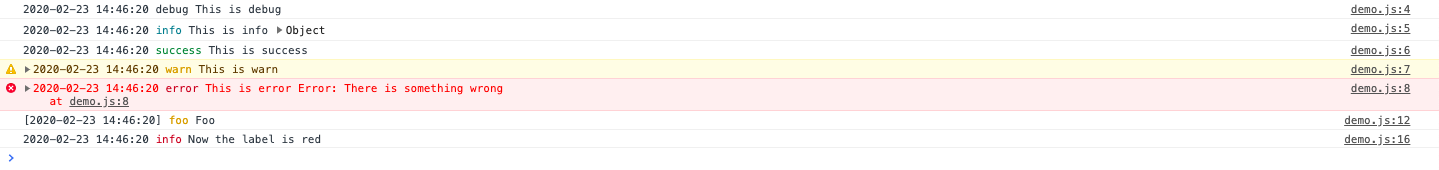
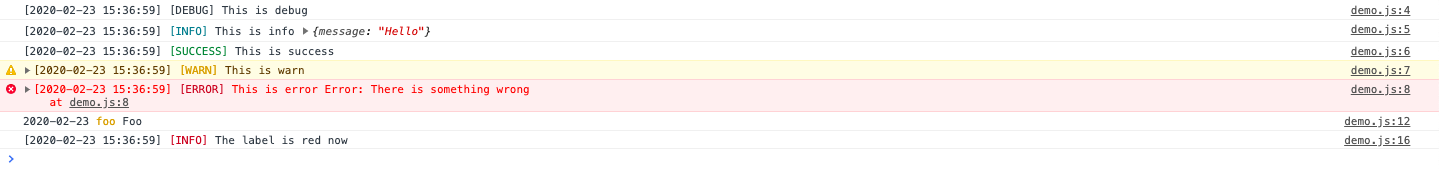
Add label option

diff --git a/dist/bundle.js b/dist/bundle.js
@@ -1,1 +1,1 @@
-!function(t,e){"object"==typeof exports&&"object"==typeof module?module.exports=e():"function"==typeof define&&define.amd?define([],e):"object"==typeof exports?exports.LogTalk=e():t.LogTalk=e()}("undefined"!=typeof self?self:this,(function(){return function(t){var e={};function n(r){if(e[r])return e[r].exports;var o=e[r]={i:r,l:!1,exports:{}};return t[r].call(o.exports,o,o.exports,n),o.l=!0,o.exports}return n.m=t,n.c=e,n.d=function(t,e,r){n.o(t,e)||Object.defineProperty(t,e,{enumerable:!0,get:r})},n.r=function(t){"undefined"!=typeof Symbol&&Symbol.toStringTag&&Object.defineProperty(t,Symbol.toStringTag,{value:"Module"}),Object.defineProperty(t,"__esModule",{value:!0})},n.t=function(t,e){if(1&e&&(t=n(t)),8&e)return t;if(4&e&&"object"==typeof t&&t&&t.__esModule)return t;var r=Object.create(null);if(n.r(r),Object.defineProperty(r,"default",{enumerable:!0,value:t}),2&e&&"string"!=typeof t)for(var o in t)n.d(r,o,function(e){return t[e]}.bind(null,o));return r},n.n=function(t){var e=t&&t.__esModule?function(){return t.default}:function(){return t};return n.d(e,"a",e),e},n.o=function(t,e){return Object.prototype.hasOwnProperty.call(t,e)},n.p="",n(n.s=0)}([function(t,e,n){function r(t){return function(t){if(Array.isArray(t)){for(var e=0,n=new Array(t.length);e<t.length;e++)n[e]=t[e];return n}}(t)||function(t){if(Symbol.iterator in Object(t)||"[object Arguments]"===Object.prototype.toString.call(t))return Array.from(t)}(t)||function(){throw new TypeError("Invalid attempt to spread non-iterable instance")}()}function o(t){return(o="function"==typeof Symbol&&"symbol"==typeof Symbol.iterator?function(t){return typeof t}:function(t){return t&&"function"==typeof Symbol&&t.constructor===Symbol&&t!==Symbol.prototype?"symbol":typeof t})(t)}function i(t,e){var n=Object.keys(t);if(Object.getOwnPropertySymbols){var r=Object.getOwnPropertySymbols(t);e&&(r=r.filter((function(e){return Object.getOwnPropertyDescriptor(t,e).enumerable}))),n.push.apply(n,r)}return n}function u(t){for(var e=1;e<arguments.length;e++){var n=null!=arguments[e]?arguments[e]:{};e%2?i(Object(n),!0).forEach((function(e){s(t,e,n[e])})):Object.getOwnPropertyDescriptors?Object.defineProperties(t,Object.getOwnPropertyDescriptors(n)):i(Object(n)).forEach((function(e){Object.defineProperty(t,e,Object.getOwnPropertyDescriptor(n,e))}))}return t}function s(t,e,n){return e in t?Object.defineProperty(t,e,{value:n,enumerable:!0,configurable:!0,writable:!0}):t[e]=n,t}function a(t,e){if(!(t instanceof e))throw new TypeError("Cannot call a class as a function")}function c(t,e){for(var n=0;n<e.length;n++){var r=e[n];r.enumerable=r.enumerable||!1,r.configurable=!0,"value"in r&&(r.writable=!0),Object.defineProperty(t,r.key,r)}}function f(t,e,n){return e&&c(t.prototype,e),n&&c(t,n),t}var l=n(1),h=function(){function t(){var e=arguments.length>0&&void 0!==arguments[0]?arguments[0]:1,n=arguments.length>1&&void 0!==arguments[1]?arguments[1]:{};a(this,t),this.__option=u({},t.DEFAULT_LOGGING_METHOD,{},n),this.__level=e,t.LOGGING_METHODS.forEach(this.setMethod.bind(this))}return f(t,null,[{key:"LOGGING_METHODS",get:function(){return[{name:"debug",level:1,color:"default",output:console.log},{name:"info",level:2,color:"blue",output:console.log},{name:"success",level:3,color:"green",output:console.log},{name:"warn",level:4,color:"yellow",output:console.warn||console.log},{name:"error",level:5,color:"red",output:console.error||console.log}]}},{key:"DEFAULT_LOGGING_METHOD",get:function(){return{level:1,color:"default",output:console.log,timeFormat:"YYYY-MM-DD HH:mm:ss"}}},{key:"BROWSER_COLOR",get:function(){return{red:"#BD2130",yellow:"#D39E00",green:"#1E7E34",blue:"#117A8B",default:"inherit"}}},{key:"TERMINAL_COLOR",get:function(){return{red:"[91m",yellow:"[93m",green:"[92m",blue:"[94m",default:"[0m"}}}]),f(t,[{key:"highlight",value:function(e,n,r){return"undefined"==typeof window?[e,t.TERMINAL_COLOR[r]+n+t.TERMINAL_COLOR.default]:window.navigator.userAgent.match(/(T|t)rident/)?[e,n]:["".concat(e," %c").concat(n),"color: ".concat(t.BROWSER_COLOR[r])]}},{key:"setMethod",value:function(t){if("object"!==o(t))throw new Error("Invalid method");var e=t=u({},this.__option,{},t),n=e.name,i=e.level,s=e.timeFormat,a=e.output,c=e.color;if("string"!=typeof n)throw new Error("Invalid method name");switch(n){case"highlight":case"setMethod":throw new Error("Method name is reserved");case"":throw new Error("Method name is empty")}if("undefined"==typeof console)return!1;if(!this.__level||i<this.__level)return!1;var f=l().format(s),h=this.highlight(f,n,c);this[n]=a.bind.apply(a,[console].concat(r(h)))}}]),t}();t.exports=h},function(t,e,n){t.exports=function(){"use strict";var t="millisecond",e="second",n="minute",r="hour",o="day",i="week",u="month",s="quarter",a="year",c=/^(\d{4})-?(\d{1,2})-?(\d{0,2})[^0-9]*(\d{1,2})?:?(\d{1,2})?:?(\d{1,2})?.?(\d{1,3})?$/,f=/\[([^\]]+)]|Y{2,4}|M{1,4}|D{1,2}|d{1,4}|H{1,2}|h{1,2}|a|A|m{1,2}|s{1,2}|Z{1,2}|SSS/g,l=function(t,e,n){var r=String(t);return!r||r.length>=e?t:""+Array(e+1-r.length).join(n)+t},h={s:l,z:function(t){var e=-t.utcOffset(),n=Math.abs(e),r=Math.floor(n/60),o=n%60;return(e<=0?"+":"-")+l(r,2,"0")+":"+l(o,2,"0")},m:function(t,e){var n=12*(e.year()-t.year())+(e.month()-t.month()),r=t.clone().add(n,u),o=e-r<0,i=t.clone().add(n+(o?-1:1),u);return Number(-(n+(e-r)/(o?r-i:i-r))||0)},a:function(t){return t<0?Math.ceil(t)||0:Math.floor(t)},p:function(c){return{M:u,y:a,w:i,d:o,h:r,m:n,s:e,ms:t,Q:s}[c]||String(c||"").toLowerCase().replace(/s$/,"")},u:function(t){return void 0===t}},d={name:"en",weekdays:"Sunday_Monday_Tuesday_Wednesday_Thursday_Friday_Saturday".split("_"),months:"January_February_March_April_May_June_July_August_September_October_November_December".split("_")},y="en",p={};p[y]=d;var m=function(t){return t instanceof O},g=function(t,e,n){var r;if(!t)return y;if("string"==typeof t)p[t]&&(r=t),e&&(p[t]=e,r=t);else{var o=t.name;p[o]=t,r=o}return n||(y=r),r},$=function(t,e,n){if(m(t))return t.clone();var r=e?"string"==typeof e?{format:e,pl:n}:e:{};return r.date=t,new O(r)},v=h;v.l=g,v.i=m,v.w=function(t,e){return $(t,{locale:e.$L,utc:e.$u,$offset:e.$offset})};var O=function(){function l(t){this.$L=this.$L||g(t.locale,null,!0),this.parse(t)}var h=l.prototype;return h.parse=function(t){this.$d=function(t){var e=t.date,n=t.utc;if(null===e)return new Date(NaN);if(v.u(e))return new Date;if(e instanceof Date)return new Date(e);if("string"==typeof e&&!/Z$/i.test(e)){var r=e.match(c);if(r)return n?new Date(Date.UTC(r[1],r[2]-1,r[3]||1,r[4]||0,r[5]||0,r[6]||0,r[7]||0)):new Date(r[1],r[2]-1,r[3]||1,r[4]||0,r[5]||0,r[6]||0,r[7]||0)}return new Date(e)}(t),this.init()},h.init=function(){var t=this.$d;this.$y=t.getFullYear(),this.$M=t.getMonth(),this.$D=t.getDate(),this.$W=t.getDay(),this.$H=t.getHours(),this.$m=t.getMinutes(),this.$s=t.getSeconds(),this.$ms=t.getMilliseconds()},h.$utils=function(){return v},h.isValid=function(){return!("Invalid Date"===this.$d.toString())},h.isSame=function(t,e){var n=$(t);return this.startOf(e)<=n&&n<=this.endOf(e)},h.isAfter=function(t,e){return $(t)<this.startOf(e)},h.isBefore=function(t,e){return this.endOf(e)<$(t)},h.$g=function(t,e,n){return v.u(t)?this[e]:this.set(n,t)},h.year=function(t){return this.$g(t,"$y",a)},h.month=function(t){return this.$g(t,"$M",u)},h.day=function(t){return this.$g(t,"$W",o)},h.date=function(t){return this.$g(t,"$D","date")},h.hour=function(t){return this.$g(t,"$H",r)},h.minute=function(t){return this.$g(t,"$m",n)},h.second=function(t){return this.$g(t,"$s",e)},h.millisecond=function(e){return this.$g(e,"$ms",t)},h.unix=function(){return Math.floor(this.valueOf()/1e3)},h.valueOf=function(){return this.$d.getTime()},h.startOf=function(t,s){var c=this,f=!!v.u(s)||s,l=v.p(t),h=function(t,e){var n=v.w(c.$u?Date.UTC(c.$y,e,t):new Date(c.$y,e,t),c);return f?n:n.endOf(o)},d=function(t,e){return v.w(c.toDate()[t].apply(c.toDate(),(f?[0,0,0,0]:[23,59,59,999]).slice(e)),c)},y=this.$W,p=this.$M,m=this.$D,g="set"+(this.$u?"UTC":"");switch(l){case a:return f?h(1,0):h(31,11);case u:return f?h(1,p):h(0,p+1);case i:var $=this.$locale().weekStart||0,O=(y<$?y+7:y)-$;return h(f?m-O:m+(6-O),p);case o:case"date":return d(g+"Hours",0);case r:return d(g+"Minutes",1);case n:return d(g+"Seconds",2);case e:return d(g+"Milliseconds",3);default:return this.clone()}},h.endOf=function(t){return this.startOf(t,!1)},h.$set=function(i,s){var c,f=v.p(i),l="set"+(this.$u?"UTC":""),h=(c={},c[o]=l+"Date",c.date=l+"Date",c[u]=l+"Month",c[a]=l+"FullYear",c[r]=l+"Hours",c[n]=l+"Minutes",c[e]=l+"Seconds",c[t]=l+"Milliseconds",c)[f],d=f===o?this.$D+(s-this.$W):s;if(f===u||f===a){var y=this.clone().set("date",1);y.$d[h](d),y.init(),this.$d=y.set("date",Math.min(this.$D,y.daysInMonth())).toDate()}else h&&this.$d[h](d);return this.init(),this},h.set=function(t,e){return this.clone().$set(t,e)},h.get=function(t){return this[v.p(t)]()},h.add=function(t,s){var c,f=this;t=Number(t);var l=v.p(s),h=function(e){var n=$(f);return v.w(n.date(n.date()+Math.round(e*t)),f)};if(l===u)return this.set(u,this.$M+t);if(l===a)return this.set(a,this.$y+t);if(l===o)return h(1);if(l===i)return h(7);var d=(c={},c[n]=6e4,c[r]=36e5,c[e]=1e3,c)[l]||1,y=this.$d.getTime()+t*d;return v.w(y,this)},h.subtract=function(t,e){return this.add(-1*t,e)},h.format=function(t){var e=this;if(!this.isValid())return"Invalid Date";var n=t||"YYYY-MM-DDTHH:mm:ssZ",r=v.z(this),o=this.$locale(),i=this.$H,u=this.$m,s=this.$M,a=o.weekdays,c=o.months,l=function(t,r,o,i){return t&&(t[r]||t(e,n))||o[r].substr(0,i)},h=function(t){return v.s(i%12||12,t,"0")},d=o.meridiem||function(t,e,n){var r=t<12?"AM":"PM";return n?r.toLowerCase():r},y={YY:String(this.$y).slice(-2),YYYY:this.$y,M:s+1,MM:v.s(s+1,2,"0"),MMM:l(o.monthsShort,s,c,3),MMMM:c[s]||c(this,n),D:this.$D,DD:v.s(this.$D,2,"0"),d:String(this.$W),dd:l(o.weekdaysMin,this.$W,a,2),ddd:l(o.weekdaysShort,this.$W,a,3),dddd:a[this.$W],H:String(i),HH:v.s(i,2,"0"),h:h(1),hh:h(2),a:d(i,u,!0),A:d(i,u,!1),m:String(u),mm:v.s(u,2,"0"),s:String(this.$s),ss:v.s(this.$s,2,"0"),SSS:v.s(this.$ms,3,"0"),Z:r};return n.replace(f,(function(t,e){return e||y[t]||r.replace(":","")}))},h.utcOffset=function(){return 15*-Math.round(this.$d.getTimezoneOffset()/15)},h.diff=function(t,c,f){var l,h=v.p(c),d=$(t),y=6e4*(d.utcOffset()-this.utcOffset()),p=this-d,m=v.m(this,d);return m=(l={},l[a]=m/12,l[u]=m,l[s]=m/3,l[i]=(p-y)/6048e5,l[o]=(p-y)/864e5,l[r]=p/36e5,l[n]=p/6e4,l[e]=p/1e3,l)[h]||p,f?m:v.a(m)},h.daysInMonth=function(){return this.endOf(u).$D},h.$locale=function(){return p[this.$L]},h.locale=function(t,e){if(!t)return this.$L;var n=this.clone(),r=g(t,e,!0);return r&&(n.$L=r),n},h.clone=function(){return v.w(this.$d,this)},h.toDate=function(){return new Date(this.valueOf())},h.toJSON=function(){return this.isValid()?this.toISOString():null},h.toISOString=function(){return this.$d.toISOString()},h.toString=function(){return this.$d.toUTCString()},l}();return $.prototype=O.prototype,$.extend=function(t,e){return t(e,O,$),$},$.locale=g,$.isDayjs=m,$.unix=function(t){return $(1e3*t)},$.en=p[y],$.Ls=p,$}()}])}));
+!function(t,e){"object"==typeof exports&&"object"==typeof module?module.exports=e():"function"==typeof define&&define.amd?define([],e):"object"==typeof exports?exports.LogTalk=e():t.LogTalk=e()}("undefined"!=typeof self?self:this,(function(){return function(t){var e={};function n(r){if(e[r])return e[r].exports;var o=e[r]={i:r,l:!1,exports:{}};return t[r].call(o.exports,o,o.exports,n),o.l=!0,o.exports}return n.m=t,n.c=e,n.d=function(t,e,r){n.o(t,e)||Object.defineProperty(t,e,{enumerable:!0,get:r})},n.r=function(t){"undefined"!=typeof Symbol&&Symbol.toStringTag&&Object.defineProperty(t,Symbol.toStringTag,{value:"Module"}),Object.defineProperty(t,"__esModule",{value:!0})},n.t=function(t,e){if(1&e&&(t=n(t)),8&e)return t;if(4&e&&"object"==typeof t&&t&&t.__esModule)return t;var r=Object.create(null);if(n.r(r),Object.defineProperty(r,"default",{enumerable:!0,value:t}),2&e&&"string"!=typeof t)for(var o in t)n.d(r,o,function(e){return t[e]}.bind(null,o));return r},n.n=function(t){var e=t&&t.__esModule?function(){return t.default}:function(){return t};return n.d(e,"a",e),e},n.o=function(t,e){return Object.prototype.hasOwnProperty.call(t,e)},n.p="",n(n.s=0)}([function(t,e,n){function r(t){return function(t){if(Array.isArray(t)){for(var e=0,n=new Array(t.length);e<t.length;e++)n[e]=t[e];return n}}(t)||function(t){if(Symbol.iterator in Object(t)||"[object Arguments]"===Object.prototype.toString.call(t))return Array.from(t)}(t)||function(){throw new TypeError("Invalid attempt to spread non-iterable instance")}()}function o(t){return(o="function"==typeof Symbol&&"symbol"==typeof Symbol.iterator?function(t){return typeof t}:function(t){return t&&"function"==typeof Symbol&&t.constructor===Symbol&&t!==Symbol.prototype?"symbol":typeof t})(t)}function i(t,e){var n=Object.keys(t);if(Object.getOwnPropertySymbols){var r=Object.getOwnPropertySymbols(t);e&&(r=r.filter((function(e){return Object.getOwnPropertyDescriptor(t,e).enumerable}))),n.push.apply(n,r)}return n}function u(t){for(var e=1;e<arguments.length;e++){var n=null!=arguments[e]?arguments[e]:{};e%2?i(Object(n),!0).forEach((function(e){s(t,e,n[e])})):Object.getOwnPropertyDescriptors?Object.defineProperties(t,Object.getOwnPropertyDescriptors(n)):i(Object(n)).forEach((function(e){Object.defineProperty(t,e,Object.getOwnPropertyDescriptor(n,e))}))}return t}function s(t,e,n){return e in t?Object.defineProperty(t,e,{value:n,enumerable:!0,configurable:!0,writable:!0}):t[e]=n,t}function a(t,e){if(!(t instanceof e))throw new TypeError("Cannot call a class as a function")}function c(t,e){for(var n=0;n<e.length;n++){var r=e[n];r.enumerable=r.enumerable||!1,r.configurable=!0,"value"in r&&(r.writable=!0),Object.defineProperty(t,r.key,r)}}function f(t,e,n){return e&&c(t.prototype,e),n&&c(t,n),t}var l=n(1),h=function(){function t(){var e=arguments.length>0&&void 0!==arguments[0]?arguments[0]:1,n=arguments.length>1&&void 0!==arguments[1]?arguments[1]:{};a(this,t),this.__option=u({},t.DEFAULT_LOGGING_METHOD,{},n),this.__level=e,t.LOGGING_METHODS.forEach(this.setMethod.bind(this))}return f(t,null,[{key:"LOGGING_METHODS",get:function(){return[{name:"debug",label:"[DEBUG]",level:1,color:"default",output:console.log},{name:"info",label:"[INFO]",level:2,color:"blue",output:console.log},{name:"success",label:"[SUCCESS]",level:3,color:"green",output:console.log},{name:"warn",label:"[WARN]",level:4,color:"yellow",output:console.warn||console.log},{name:"error",label:"[ERROR]",level:5,color:"red",output:console.error||console.log}]}},{key:"DEFAULT_LOGGING_METHOD",get:function(){return{level:1,color:"default",output:console.log,timeFormat:"[[]YYYY-MM-DD HH:mm:ss]"}}},{key:"BROWSER_COLOR",get:function(){return{red:"#BD2130",yellow:"#D39E00",green:"#1E7E34",blue:"#117A8B",default:"inherit"}}},{key:"TERMINAL_COLOR",get:function(){return{red:"[91m",yellow:"[93m",green:"[92m",blue:"[94m",default:"[0m"}}}]),f(t,[{key:"highlight",value:function(e,n,r){return"undefined"==typeof window?[e,t.TERMINAL_COLOR[r]+n+t.TERMINAL_COLOR.default]:window.navigator.userAgent.match(/(T|t)rident/)?[e,n]:["".concat(e," %c").concat(n),"color: ".concat(t.BROWSER_COLOR[r])]}},{key:"setMethod",value:function(t){if("object"!==o(t))throw new Error("Invalid method");var e=t=u({},this.__option,{},t),n=e.name,i=e.label,s=e.level,a=e.timeFormat,c=e.output,f=e.color;if("string"!=typeof n)throw new Error("Invalid method name");switch(n){case"highlight":case"setMethod":throw new Error("Method name is reserved");case"":throw new Error("Method name is empty")}if("undefined"==typeof console)return!1;if(!this.__level||s<this.__level)return!1;var h=l().format(a),d=this.highlight(h,void 0!==i?i:n,f);this[n]=c.bind.apply(c,[console].concat(r(d)))}}]),t}();t.exports=h},function(t,e,n){t.exports=function(){"use strict";var t="millisecond",e="second",n="minute",r="hour",o="day",i="week",u="month",s="quarter",a="year",c=/^(\d{4})-?(\d{1,2})-?(\d{0,2})[^0-9]*(\d{1,2})?:?(\d{1,2})?:?(\d{1,2})?.?(\d{1,3})?$/,f=/\[([^\]]+)]|Y{2,4}|M{1,4}|D{1,2}|d{1,4}|H{1,2}|h{1,2}|a|A|m{1,2}|s{1,2}|Z{1,2}|SSS/g,l=function(t,e,n){var r=String(t);return!r||r.length>=e?t:""+Array(e+1-r.length).join(n)+t},h={s:l,z:function(t){var e=-t.utcOffset(),n=Math.abs(e),r=Math.floor(n/60),o=n%60;return(e<=0?"+":"-")+l(r,2,"0")+":"+l(o,2,"0")},m:function(t,e){var n=12*(e.year()-t.year())+(e.month()-t.month()),r=t.clone().add(n,u),o=e-r<0,i=t.clone().add(n+(o?-1:1),u);return Number(-(n+(e-r)/(o?r-i:i-r))||0)},a:function(t){return t<0?Math.ceil(t)||0:Math.floor(t)},p:function(c){return{M:u,y:a,w:i,d:o,h:r,m:n,s:e,ms:t,Q:s}[c]||String(c||"").toLowerCase().replace(/s$/,"")},u:function(t){return void 0===t}},d={name:"en",weekdays:"Sunday_Monday_Tuesday_Wednesday_Thursday_Friday_Saturday".split("_"),months:"January_February_March_April_May_June_July_August_September_October_November_December".split("_")},y="en",p={};p[y]=d;var m=function(t){return t instanceof b},g=function(t,e,n){var r;if(!t)return y;if("string"==typeof t)p[t]&&(r=t),e&&(p[t]=e,r=t);else{var o=t.name;p[o]=t,r=o}return n||(y=r),r},$=function(t,e,n){if(m(t))return t.clone();var r=e?"string"==typeof e?{format:e,pl:n}:e:{};return r.date=t,new b(r)},v=h;v.l=g,v.i=m,v.w=function(t,e){return $(t,{locale:e.$L,utc:e.$u,$offset:e.$offset})};var b=function(){function l(t){this.$L=this.$L||g(t.locale,null,!0),this.parse(t)}var h=l.prototype;return h.parse=function(t){this.$d=function(t){var e=t.date,n=t.utc;if(null===e)return new Date(NaN);if(v.u(e))return new Date;if(e instanceof Date)return new Date(e);if("string"==typeof e&&!/Z$/i.test(e)){var r=e.match(c);if(r)return n?new Date(Date.UTC(r[1],r[2]-1,r[3]||1,r[4]||0,r[5]||0,r[6]||0,r[7]||0)):new Date(r[1],r[2]-1,r[3]||1,r[4]||0,r[5]||0,r[6]||0,r[7]||0)}return new Date(e)}(t),this.init()},h.init=function(){var t=this.$d;this.$y=t.getFullYear(),this.$M=t.getMonth(),this.$D=t.getDate(),this.$W=t.getDay(),this.$H=t.getHours(),this.$m=t.getMinutes(),this.$s=t.getSeconds(),this.$ms=t.getMilliseconds()},h.$utils=function(){return v},h.isValid=function(){return!("Invalid Date"===this.$d.toString())},h.isSame=function(t,e){var n=$(t);return this.startOf(e)<=n&&n<=this.endOf(e)},h.isAfter=function(t,e){return $(t)<this.startOf(e)},h.isBefore=function(t,e){return this.endOf(e)<$(t)},h.$g=function(t,e,n){return v.u(t)?this[e]:this.set(n,t)},h.year=function(t){return this.$g(t,"$y",a)},h.month=function(t){return this.$g(t,"$M",u)},h.day=function(t){return this.$g(t,"$W",o)},h.date=function(t){return this.$g(t,"$D","date")},h.hour=function(t){return this.$g(t,"$H",r)},h.minute=function(t){return this.$g(t,"$m",n)},h.second=function(t){return this.$g(t,"$s",e)},h.millisecond=function(e){return this.$g(e,"$ms",t)},h.unix=function(){return Math.floor(this.valueOf()/1e3)},h.valueOf=function(){return this.$d.getTime()},h.startOf=function(t,s){var c=this,f=!!v.u(s)||s,l=v.p(t),h=function(t,e){var n=v.w(c.$u?Date.UTC(c.$y,e,t):new Date(c.$y,e,t),c);return f?n:n.endOf(o)},d=function(t,e){return v.w(c.toDate()[t].apply(c.toDate(),(f?[0,0,0,0]:[23,59,59,999]).slice(e)),c)},y=this.$W,p=this.$M,m=this.$D,g="set"+(this.$u?"UTC":"");switch(l){case a:return f?h(1,0):h(31,11);case u:return f?h(1,p):h(0,p+1);case i:var $=this.$locale().weekStart||0,b=(y<$?y+7:y)-$;return h(f?m-b:m+(6-b),p);case o:case"date":return d(g+"Hours",0);case r:return d(g+"Minutes",1);case n:return d(g+"Seconds",2);case e:return d(g+"Milliseconds",3);default:return this.clone()}},h.endOf=function(t){return this.startOf(t,!1)},h.$set=function(i,s){var c,f=v.p(i),l="set"+(this.$u?"UTC":""),h=(c={},c[o]=l+"Date",c.date=l+"Date",c[u]=l+"Month",c[a]=l+"FullYear",c[r]=l+"Hours",c[n]=l+"Minutes",c[e]=l+"Seconds",c[t]=l+"Milliseconds",c)[f],d=f===o?this.$D+(s-this.$W):s;if(f===u||f===a){var y=this.clone().set("date",1);y.$d[h](d),y.init(),this.$d=y.set("date",Math.min(this.$D,y.daysInMonth())).toDate()}else h&&this.$d[h](d);return this.init(),this},h.set=function(t,e){return this.clone().$set(t,e)},h.get=function(t){return this[v.p(t)]()},h.add=function(t,s){var c,f=this;t=Number(t);var l=v.p(s),h=function(e){var n=$(f);return v.w(n.date(n.date()+Math.round(e*t)),f)};if(l===u)return this.set(u,this.$M+t);if(l===a)return this.set(a,this.$y+t);if(l===o)return h(1);if(l===i)return h(7);var d=(c={},c[n]=6e4,c[r]=36e5,c[e]=1e3,c)[l]||1,y=this.$d.getTime()+t*d;return v.w(y,this)},h.subtract=function(t,e){return this.add(-1*t,e)},h.format=function(t){var e=this;if(!this.isValid())return"Invalid Date";var n=t||"YYYY-MM-DDTHH:mm:ssZ",r=v.z(this),o=this.$locale(),i=this.$H,u=this.$m,s=this.$M,a=o.weekdays,c=o.months,l=function(t,r,o,i){return t&&(t[r]||t(e,n))||o[r].substr(0,i)},h=function(t){return v.s(i%12||12,t,"0")},d=o.meridiem||function(t,e,n){var r=t<12?"AM":"PM";return n?r.toLowerCase():r},y={YY:String(this.$y).slice(-2),YYYY:this.$y,M:s+1,MM:v.s(s+1,2,"0"),MMM:l(o.monthsShort,s,c,3),MMMM:c[s]||c(this,n),D:this.$D,DD:v.s(this.$D,2,"0"),d:String(this.$W),dd:l(o.weekdaysMin,this.$W,a,2),ddd:l(o.weekdaysShort,this.$W,a,3),dddd:a[this.$W],H:String(i),HH:v.s(i,2,"0"),h:h(1),hh:h(2),a:d(i,u,!0),A:d(i,u,!1),m:String(u),mm:v.s(u,2,"0"),s:String(this.$s),ss:v.s(this.$s,2,"0"),SSS:v.s(this.$ms,3,"0"),Z:r};return n.replace(f,(function(t,e){return e||y[t]||r.replace(":","")}))},h.utcOffset=function(){return 15*-Math.round(this.$d.getTimezoneOffset()/15)},h.diff=function(t,c,f){var l,h=v.p(c),d=$(t),y=6e4*(d.utcOffset()-this.utcOffset()),p=this-d,m=v.m(this,d);return m=(l={},l[a]=m/12,l[u]=m,l[s]=m/3,l[i]=(p-y)/6048e5,l[o]=(p-y)/864e5,l[r]=p/36e5,l[n]=p/6e4,l[e]=p/1e3,l)[h]||p,f?m:v.a(m)},h.daysInMonth=function(){return this.endOf(u).$D},h.$locale=function(){return p[this.$L]},h.locale=function(t,e){if(!t)return this.$L;var n=this.clone(),r=g(t,e,!0);return r&&(n.$L=r),n},h.clone=function(){return v.w(this.$d,this)},h.toDate=function(){return new Date(this.valueOf())},h.toJSON=function(){return this.isValid()?this.toISOString():null},h.toISOString=function(){return this.$d.toISOString()},h.toString=function(){return this.$d.toUTCString()},l}();return $.prototype=b.prototype,$.extend=function(t,e){return t(e,b,$),$},$.locale=g,$.isDayjs=m,$.unix=function(t){return $(1e3*t)},$.en=p[y],$.Ls=p,$}()}])}));

diff --git a/docs/bundle.js b/docs/bundle.js
@@ -1,1 +1,1 @@
-!function(t,e){"object"==typeof exports&&"object"==typeof module?module.exports=e():"function"==typeof define&&define.amd?define([],e):"object"==typeof exports?exports.LogTalk=e():t.LogTalk=e()}("undefined"!=typeof self?self:this,(function(){return function(t){var e={};function n(r){if(e[r])return e[r].exports;var o=e[r]={i:r,l:!1,exports:{}};return t[r].call(o.exports,o,o.exports,n),o.l=!0,o.exports}return n.m=t,n.c=e,n.d=function(t,e,r){n.o(t,e)||Object.defineProperty(t,e,{enumerable:!0,get:r})},n.r=function(t){"undefined"!=typeof Symbol&&Symbol.toStringTag&&Object.defineProperty(t,Symbol.toStringTag,{value:"Module"}),Object.defineProperty(t,"__esModule",{value:!0})},n.t=function(t,e){if(1&e&&(t=n(t)),8&e)return t;if(4&e&&"object"==typeof t&&t&&t.__esModule)return t;var r=Object.create(null);if(n.r(r),Object.defineProperty(r,"default",{enumerable:!0,value:t}),2&e&&"string"!=typeof t)for(var o in t)n.d(r,o,function(e){return t[e]}.bind(null,o));return r},n.n=function(t){var e=t&&t.__esModule?function(){return t.default}:function(){return t};return n.d(e,"a",e),e},n.o=function(t,e){return Object.prototype.hasOwnProperty.call(t,e)},n.p="",n(n.s=0)}([function(t,e,n){function r(t){return function(t){if(Array.isArray(t)){for(var e=0,n=new Array(t.length);e<t.length;e++)n[e]=t[e];return n}}(t)||function(t){if(Symbol.iterator in Object(t)||"[object Arguments]"===Object.prototype.toString.call(t))return Array.from(t)}(t)||function(){throw new TypeError("Invalid attempt to spread non-iterable instance")}()}function o(t){return(o="function"==typeof Symbol&&"symbol"==typeof Symbol.iterator?function(t){return typeof t}:function(t){return t&&"function"==typeof Symbol&&t.constructor===Symbol&&t!==Symbol.prototype?"symbol":typeof t})(t)}function i(t,e){var n=Object.keys(t);if(Object.getOwnPropertySymbols){var r=Object.getOwnPropertySymbols(t);e&&(r=r.filter((function(e){return Object.getOwnPropertyDescriptor(t,e).enumerable}))),n.push.apply(n,r)}return n}function u(t){for(var e=1;e<arguments.length;e++){var n=null!=arguments[e]?arguments[e]:{};e%2?i(Object(n),!0).forEach((function(e){s(t,e,n[e])})):Object.getOwnPropertyDescriptors?Object.defineProperties(t,Object.getOwnPropertyDescriptors(n)):i(Object(n)).forEach((function(e){Object.defineProperty(t,e,Object.getOwnPropertyDescriptor(n,e))}))}return t}function s(t,e,n){return e in t?Object.defineProperty(t,e,{value:n,enumerable:!0,configurable:!0,writable:!0}):t[e]=n,t}function a(t,e){if(!(t instanceof e))throw new TypeError("Cannot call a class as a function")}function c(t,e){for(var n=0;n<e.length;n++){var r=e[n];r.enumerable=r.enumerable||!1,r.configurable=!0,"value"in r&&(r.writable=!0),Object.defineProperty(t,r.key,r)}}function f(t,e,n){return e&&c(t.prototype,e),n&&c(t,n),t}var l=n(1),h=function(){function t(){var e=arguments.length>0&&void 0!==arguments[0]?arguments[0]:1,n=arguments.length>1&&void 0!==arguments[1]?arguments[1]:{};a(this,t),this.__option=u({},t.DEFAULT_LOGGING_METHOD,{},n),this.__level=e,t.LOGGING_METHODS.forEach(this.setMethod.bind(this))}return f(t,null,[{key:"LOGGING_METHODS",get:function(){return[{name:"debug",level:1,color:"default",output:console.log},{name:"info",level:2,color:"blue",output:console.log},{name:"success",level:3,color:"green",output:console.log},{name:"warn",level:4,color:"yellow",output:console.warn||console.log},{name:"error",level:5,color:"red",output:console.error||console.log}]}},{key:"DEFAULT_LOGGING_METHOD",get:function(){return{level:1,color:"default",output:console.log,timeFormat:"YYYY-MM-DD HH:mm:ss"}}},{key:"BROWSER_COLOR",get:function(){return{red:"#BD2130",yellow:"#D39E00",green:"#1E7E34",blue:"#117A8B",default:"inherit"}}},{key:"TERMINAL_COLOR",get:function(){return{red:"[91m",yellow:"[93m",green:"[92m",blue:"[94m",default:"[0m"}}}]),f(t,[{key:"highlight",value:function(e,n,r){return"undefined"==typeof window?[e,t.TERMINAL_COLOR[r]+n+t.TERMINAL_COLOR.default]:window.navigator.userAgent.match(/(T|t)rident/)?[e,n]:["".concat(e," %c").concat(n),"color: ".concat(t.BROWSER_COLOR[r])]}},{key:"setMethod",value:function(t){if("object"!==o(t))throw new Error("Invalid method");var e=t=u({},this.__option,{},t),n=e.name,i=e.level,s=e.timeFormat,a=e.output,c=e.color;if("string"!=typeof n)throw new Error("Invalid method name");switch(n){case"highlight":case"setMethod":throw new Error("Method name is reserved");case"":throw new Error("Method name is empty")}if("undefined"==typeof console)return!1;if(!this.__level||i<this.__level)return!1;var f=l().format(s),h=this.highlight(f,n,c);this[n]=a.bind.apply(a,[console].concat(r(h)))}}]),t}();t.exports=h},function(t,e,n){t.exports=function(){"use strict";var t="millisecond",e="second",n="minute",r="hour",o="day",i="week",u="month",s="quarter",a="year",c=/^(\d{4})-?(\d{1,2})-?(\d{0,2})[^0-9]*(\d{1,2})?:?(\d{1,2})?:?(\d{1,2})?.?(\d{1,3})?$/,f=/\[([^\]]+)]|Y{2,4}|M{1,4}|D{1,2}|d{1,4}|H{1,2}|h{1,2}|a|A|m{1,2}|s{1,2}|Z{1,2}|SSS/g,l=function(t,e,n){var r=String(t);return!r||r.length>=e?t:""+Array(e+1-r.length).join(n)+t},h={s:l,z:function(t){var e=-t.utcOffset(),n=Math.abs(e),r=Math.floor(n/60),o=n%60;return(e<=0?"+":"-")+l(r,2,"0")+":"+l(o,2,"0")},m:function(t,e){var n=12*(e.year()-t.year())+(e.month()-t.month()),r=t.clone().add(n,u),o=e-r<0,i=t.clone().add(n+(o?-1:1),u);return Number(-(n+(e-r)/(o?r-i:i-r))||0)},a:function(t){return t<0?Math.ceil(t)||0:Math.floor(t)},p:function(c){return{M:u,y:a,w:i,d:o,h:r,m:n,s:e,ms:t,Q:s}[c]||String(c||"").toLowerCase().replace(/s$/,"")},u:function(t){return void 0===t}},d={name:"en",weekdays:"Sunday_Monday_Tuesday_Wednesday_Thursday_Friday_Saturday".split("_"),months:"January_February_March_April_May_June_July_August_September_October_November_December".split("_")},y="en",p={};p[y]=d;var m=function(t){return t instanceof O},g=function(t,e,n){var r;if(!t)return y;if("string"==typeof t)p[t]&&(r=t),e&&(p[t]=e,r=t);else{var o=t.name;p[o]=t,r=o}return n||(y=r),r},$=function(t,e,n){if(m(t))return t.clone();var r=e?"string"==typeof e?{format:e,pl:n}:e:{};return r.date=t,new O(r)},v=h;v.l=g,v.i=m,v.w=function(t,e){return $(t,{locale:e.$L,utc:e.$u,$offset:e.$offset})};var O=function(){function l(t){this.$L=this.$L||g(t.locale,null,!0),this.parse(t)}var h=l.prototype;return h.parse=function(t){this.$d=function(t){var e=t.date,n=t.utc;if(null===e)return new Date(NaN);if(v.u(e))return new Date;if(e instanceof Date)return new Date(e);if("string"==typeof e&&!/Z$/i.test(e)){var r=e.match(c);if(r)return n?new Date(Date.UTC(r[1],r[2]-1,r[3]||1,r[4]||0,r[5]||0,r[6]||0,r[7]||0)):new Date(r[1],r[2]-1,r[3]||1,r[4]||0,r[5]||0,r[6]||0,r[7]||0)}return new Date(e)}(t),this.init()},h.init=function(){var t=this.$d;this.$y=t.getFullYear(),this.$M=t.getMonth(),this.$D=t.getDate(),this.$W=t.getDay(),this.$H=t.getHours(),this.$m=t.getMinutes(),this.$s=t.getSeconds(),this.$ms=t.getMilliseconds()},h.$utils=function(){return v},h.isValid=function(){return!("Invalid Date"===this.$d.toString())},h.isSame=function(t,e){var n=$(t);return this.startOf(e)<=n&&n<=this.endOf(e)},h.isAfter=function(t,e){return $(t)<this.startOf(e)},h.isBefore=function(t,e){return this.endOf(e)<$(t)},h.$g=function(t,e,n){return v.u(t)?this[e]:this.set(n,t)},h.year=function(t){return this.$g(t,"$y",a)},h.month=function(t){return this.$g(t,"$M",u)},h.day=function(t){return this.$g(t,"$W",o)},h.date=function(t){return this.$g(t,"$D","date")},h.hour=function(t){return this.$g(t,"$H",r)},h.minute=function(t){return this.$g(t,"$m",n)},h.second=function(t){return this.$g(t,"$s",e)},h.millisecond=function(e){return this.$g(e,"$ms",t)},h.unix=function(){return Math.floor(this.valueOf()/1e3)},h.valueOf=function(){return this.$d.getTime()},h.startOf=function(t,s){var c=this,f=!!v.u(s)||s,l=v.p(t),h=function(t,e){var n=v.w(c.$u?Date.UTC(c.$y,e,t):new Date(c.$y,e,t),c);return f?n:n.endOf(o)},d=function(t,e){return v.w(c.toDate()[t].apply(c.toDate(),(f?[0,0,0,0]:[23,59,59,999]).slice(e)),c)},y=this.$W,p=this.$M,m=this.$D,g="set"+(this.$u?"UTC":"");switch(l){case a:return f?h(1,0):h(31,11);case u:return f?h(1,p):h(0,p+1);case i:var $=this.$locale().weekStart||0,O=(y<$?y+7:y)-$;return h(f?m-O:m+(6-O),p);case o:case"date":return d(g+"Hours",0);case r:return d(g+"Minutes",1);case n:return d(g+"Seconds",2);case e:return d(g+"Milliseconds",3);default:return this.clone()}},h.endOf=function(t){return this.startOf(t,!1)},h.$set=function(i,s){var c,f=v.p(i),l="set"+(this.$u?"UTC":""),h=(c={},c[o]=l+"Date",c.date=l+"Date",c[u]=l+"Month",c[a]=l+"FullYear",c[r]=l+"Hours",c[n]=l+"Minutes",c[e]=l+"Seconds",c[t]=l+"Milliseconds",c)[f],d=f===o?this.$D+(s-this.$W):s;if(f===u||f===a){var y=this.clone().set("date",1);y.$d[h](d),y.init(),this.$d=y.set("date",Math.min(this.$D,y.daysInMonth())).toDate()}else h&&this.$d[h](d);return this.init(),this},h.set=function(t,e){return this.clone().$set(t,e)},h.get=function(t){return this[v.p(t)]()},h.add=function(t,s){var c,f=this;t=Number(t);var l=v.p(s),h=function(e){var n=$(f);return v.w(n.date(n.date()+Math.round(e*t)),f)};if(l===u)return this.set(u,this.$M+t);if(l===a)return this.set(a,this.$y+t);if(l===o)return h(1);if(l===i)return h(7);var d=(c={},c[n]=6e4,c[r]=36e5,c[e]=1e3,c)[l]||1,y=this.$d.getTime()+t*d;return v.w(y,this)},h.subtract=function(t,e){return this.add(-1*t,e)},h.format=function(t){var e=this;if(!this.isValid())return"Invalid Date";var n=t||"YYYY-MM-DDTHH:mm:ssZ",r=v.z(this),o=this.$locale(),i=this.$H,u=this.$m,s=this.$M,a=o.weekdays,c=o.months,l=function(t,r,o,i){return t&&(t[r]||t(e,n))||o[r].substr(0,i)},h=function(t){return v.s(i%12||12,t,"0")},d=o.meridiem||function(t,e,n){var r=t<12?"AM":"PM";return n?r.toLowerCase():r},y={YY:String(this.$y).slice(-2),YYYY:this.$y,M:s+1,MM:v.s(s+1,2,"0"),MMM:l(o.monthsShort,s,c,3),MMMM:c[s]||c(this,n),D:this.$D,DD:v.s(this.$D,2,"0"),d:String(this.$W),dd:l(o.weekdaysMin,this.$W,a,2),ddd:l(o.weekdaysShort,this.$W,a,3),dddd:a[this.$W],H:String(i),HH:v.s(i,2,"0"),h:h(1),hh:h(2),a:d(i,u,!0),A:d(i,u,!1),m:String(u),mm:v.s(u,2,"0"),s:String(this.$s),ss:v.s(this.$s,2,"0"),SSS:v.s(this.$ms,3,"0"),Z:r};return n.replace(f,(function(t,e){return e||y[t]||r.replace(":","")}))},h.utcOffset=function(){return 15*-Math.round(this.$d.getTimezoneOffset()/15)},h.diff=function(t,c,f){var l,h=v.p(c),d=$(t),y=6e4*(d.utcOffset()-this.utcOffset()),p=this-d,m=v.m(this,d);return m=(l={},l[a]=m/12,l[u]=m,l[s]=m/3,l[i]=(p-y)/6048e5,l[o]=(p-y)/864e5,l[r]=p/36e5,l[n]=p/6e4,l[e]=p/1e3,l)[h]||p,f?m:v.a(m)},h.daysInMonth=function(){return this.endOf(u).$D},h.$locale=function(){return p[this.$L]},h.locale=function(t,e){if(!t)return this.$L;var n=this.clone(),r=g(t,e,!0);return r&&(n.$L=r),n},h.clone=function(){return v.w(this.$d,this)},h.toDate=function(){return new Date(this.valueOf())},h.toJSON=function(){return this.isValid()?this.toISOString():null},h.toISOString=function(){return this.$d.toISOString()},h.toString=function(){return this.$d.toUTCString()},l}();return $.prototype=O.prototype,$.extend=function(t,e){return t(e,O,$),$},$.locale=g,$.isDayjs=m,$.unix=function(t){return $(1e3*t)},$.en=p[y],$.Ls=p,$}()}])}));
+!function(t,e){"object"==typeof exports&&"object"==typeof module?module.exports=e():"function"==typeof define&&define.amd?define([],e):"object"==typeof exports?exports.LogTalk=e():t.LogTalk=e()}("undefined"!=typeof self?self:this,(function(){return function(t){var e={};function n(r){if(e[r])return e[r].exports;var o=e[r]={i:r,l:!1,exports:{}};return t[r].call(o.exports,o,o.exports,n),o.l=!0,o.exports}return n.m=t,n.c=e,n.d=function(t,e,r){n.o(t,e)||Object.defineProperty(t,e,{enumerable:!0,get:r})},n.r=function(t){"undefined"!=typeof Symbol&&Symbol.toStringTag&&Object.defineProperty(t,Symbol.toStringTag,{value:"Module"}),Object.defineProperty(t,"__esModule",{value:!0})},n.t=function(t,e){if(1&e&&(t=n(t)),8&e)return t;if(4&e&&"object"==typeof t&&t&&t.__esModule)return t;var r=Object.create(null);if(n.r(r),Object.defineProperty(r,"default",{enumerable:!0,value:t}),2&e&&"string"!=typeof t)for(var o in t)n.d(r,o,function(e){return t[e]}.bind(null,o));return r},n.n=function(t){var e=t&&t.__esModule?function(){return t.default}:function(){return t};return n.d(e,"a",e),e},n.o=function(t,e){return Object.prototype.hasOwnProperty.call(t,e)},n.p="",n(n.s=0)}([function(t,e,n){function r(t){return function(t){if(Array.isArray(t)){for(var e=0,n=new Array(t.length);e<t.length;e++)n[e]=t[e];return n}}(t)||function(t){if(Symbol.iterator in Object(t)||"[object Arguments]"===Object.prototype.toString.call(t))return Array.from(t)}(t)||function(){throw new TypeError("Invalid attempt to spread non-iterable instance")}()}function o(t){return(o="function"==typeof Symbol&&"symbol"==typeof Symbol.iterator?function(t){return typeof t}:function(t){return t&&"function"==typeof Symbol&&t.constructor===Symbol&&t!==Symbol.prototype?"symbol":typeof t})(t)}function i(t,e){var n=Object.keys(t);if(Object.getOwnPropertySymbols){var r=Object.getOwnPropertySymbols(t);e&&(r=r.filter((function(e){return Object.getOwnPropertyDescriptor(t,e).enumerable}))),n.push.apply(n,r)}return n}function u(t){for(var e=1;e<arguments.length;e++){var n=null!=arguments[e]?arguments[e]:{};e%2?i(Object(n),!0).forEach((function(e){s(t,e,n[e])})):Object.getOwnPropertyDescriptors?Object.defineProperties(t,Object.getOwnPropertyDescriptors(n)):i(Object(n)).forEach((function(e){Object.defineProperty(t,e,Object.getOwnPropertyDescriptor(n,e))}))}return t}function s(t,e,n){return e in t?Object.defineProperty(t,e,{value:n,enumerable:!0,configurable:!0,writable:!0}):t[e]=n,t}function a(t,e){if(!(t instanceof e))throw new TypeError("Cannot call a class as a function")}function c(t,e){for(var n=0;n<e.length;n++){var r=e[n];r.enumerable=r.enumerable||!1,r.configurable=!0,"value"in r&&(r.writable=!0),Object.defineProperty(t,r.key,r)}}function f(t,e,n){return e&&c(t.prototype,e),n&&c(t,n),t}var l=n(1),h=function(){function t(){var e=arguments.length>0&&void 0!==arguments[0]?arguments[0]:1,n=arguments.length>1&&void 0!==arguments[1]?arguments[1]:{};a(this,t),this.__option=u({},t.DEFAULT_LOGGING_METHOD,{},n),this.__level=e,t.LOGGING_METHODS.forEach(this.setMethod.bind(this))}return f(t,null,[{key:"LOGGING_METHODS",get:function(){return[{name:"debug",label:"[DEBUG]",level:1,color:"default",output:console.log},{name:"info",label:"[INFO]",level:2,color:"blue",output:console.log},{name:"success",label:"[SUCCESS]",level:3,color:"green",output:console.log},{name:"warn",label:"[WARN]",level:4,color:"yellow",output:console.warn||console.log},{name:"error",label:"[ERROR]",level:5,color:"red",output:console.error||console.log}]}},{key:"DEFAULT_LOGGING_METHOD",get:function(){return{level:1,color:"default",output:console.log,timeFormat:"[[]YYYY-MM-DD HH:mm:ss]"}}},{key:"BROWSER_COLOR",get:function(){return{red:"#BD2130",yellow:"#D39E00",green:"#1E7E34",blue:"#117A8B",default:"inherit"}}},{key:"TERMINAL_COLOR",get:function(){return{red:"[91m",yellow:"[93m",green:"[92m",blue:"[94m",default:"[0m"}}}]),f(t,[{key:"highlight",value:function(e,n,r){return"undefined"==typeof window?[e,t.TERMINAL_COLOR[r]+n+t.TERMINAL_COLOR.default]:window.navigator.userAgent.match(/(T|t)rident/)?[e,n]:["".concat(e," %c").concat(n),"color: ".concat(t.BROWSER_COLOR[r])]}},{key:"setMethod",value:function(t){if("object"!==o(t))throw new Error("Invalid method");var e=t=u({},this.__option,{},t),n=e.name,i=e.label,s=e.level,a=e.timeFormat,c=e.output,f=e.color;if("string"!=typeof n)throw new Error("Invalid method name");switch(n){case"highlight":case"setMethod":throw new Error("Method name is reserved");case"":throw new Error("Method name is empty")}if("undefined"==typeof console)return!1;if(!this.__level||s<this.__level)return!1;var h=l().format(a),d=this.highlight(h,void 0!==i?i:n,f);this[n]=c.bind.apply(c,[console].concat(r(d)))}}]),t}();t.exports=h},function(t,e,n){t.exports=function(){"use strict";var t="millisecond",e="second",n="minute",r="hour",o="day",i="week",u="month",s="quarter",a="year",c=/^(\d{4})-?(\d{1,2})-?(\d{0,2})[^0-9]*(\d{1,2})?:?(\d{1,2})?:?(\d{1,2})?.?(\d{1,3})?$/,f=/\[([^\]]+)]|Y{2,4}|M{1,4}|D{1,2}|d{1,4}|H{1,2}|h{1,2}|a|A|m{1,2}|s{1,2}|Z{1,2}|SSS/g,l=function(t,e,n){var r=String(t);return!r||r.length>=e?t:""+Array(e+1-r.length).join(n)+t},h={s:l,z:function(t){var e=-t.utcOffset(),n=Math.abs(e),r=Math.floor(n/60),o=n%60;return(e<=0?"+":"-")+l(r,2,"0")+":"+l(o,2,"0")},m:function(t,e){var n=12*(e.year()-t.year())+(e.month()-t.month()),r=t.clone().add(n,u),o=e-r<0,i=t.clone().add(n+(o?-1:1),u);return Number(-(n+(e-r)/(o?r-i:i-r))||0)},a:function(t){return t<0?Math.ceil(t)||0:Math.floor(t)},p:function(c){return{M:u,y:a,w:i,d:o,h:r,m:n,s:e,ms:t,Q:s}[c]||String(c||"").toLowerCase().replace(/s$/,"")},u:function(t){return void 0===t}},d={name:"en",weekdays:"Sunday_Monday_Tuesday_Wednesday_Thursday_Friday_Saturday".split("_"),months:"January_February_March_April_May_June_July_August_September_October_November_December".split("_")},y="en",p={};p[y]=d;var m=function(t){return t instanceof b},g=function(t,e,n){var r;if(!t)return y;if("string"==typeof t)p[t]&&(r=t),e&&(p[t]=e,r=t);else{var o=t.name;p[o]=t,r=o}return n||(y=r),r},$=function(t,e,n){if(m(t))return t.clone();var r=e?"string"==typeof e?{format:e,pl:n}:e:{};return r.date=t,new b(r)},v=h;v.l=g,v.i=m,v.w=function(t,e){return $(t,{locale:e.$L,utc:e.$u,$offset:e.$offset})};var b=function(){function l(t){this.$L=this.$L||g(t.locale,null,!0),this.parse(t)}var h=l.prototype;return h.parse=function(t){this.$d=function(t){var e=t.date,n=t.utc;if(null===e)return new Date(NaN);if(v.u(e))return new Date;if(e instanceof Date)return new Date(e);if("string"==typeof e&&!/Z$/i.test(e)){var r=e.match(c);if(r)return n?new Date(Date.UTC(r[1],r[2]-1,r[3]||1,r[4]||0,r[5]||0,r[6]||0,r[7]||0)):new Date(r[1],r[2]-1,r[3]||1,r[4]||0,r[5]||0,r[6]||0,r[7]||0)}return new Date(e)}(t),this.init()},h.init=function(){var t=this.$d;this.$y=t.getFullYear(),this.$M=t.getMonth(),this.$D=t.getDate(),this.$W=t.getDay(),this.$H=t.getHours(),this.$m=t.getMinutes(),this.$s=t.getSeconds(),this.$ms=t.getMilliseconds()},h.$utils=function(){return v},h.isValid=function(){return!("Invalid Date"===this.$d.toString())},h.isSame=function(t,e){var n=$(t);return this.startOf(e)<=n&&n<=this.endOf(e)},h.isAfter=function(t,e){return $(t)<this.startOf(e)},h.isBefore=function(t,e){return this.endOf(e)<$(t)},h.$g=function(t,e,n){return v.u(t)?this[e]:this.set(n,t)},h.year=function(t){return this.$g(t,"$y",a)},h.month=function(t){return this.$g(t,"$M",u)},h.day=function(t){return this.$g(t,"$W",o)},h.date=function(t){return this.$g(t,"$D","date")},h.hour=function(t){return this.$g(t,"$H",r)},h.minute=function(t){return this.$g(t,"$m",n)},h.second=function(t){return this.$g(t,"$s",e)},h.millisecond=function(e){return this.$g(e,"$ms",t)},h.unix=function(){return Math.floor(this.valueOf()/1e3)},h.valueOf=function(){return this.$d.getTime()},h.startOf=function(t,s){var c=this,f=!!v.u(s)||s,l=v.p(t),h=function(t,e){var n=v.w(c.$u?Date.UTC(c.$y,e,t):new Date(c.$y,e,t),c);return f?n:n.endOf(o)},d=function(t,e){return v.w(c.toDate()[t].apply(c.toDate(),(f?[0,0,0,0]:[23,59,59,999]).slice(e)),c)},y=this.$W,p=this.$M,m=this.$D,g="set"+(this.$u?"UTC":"");switch(l){case a:return f?h(1,0):h(31,11);case u:return f?h(1,p):h(0,p+1);case i:var $=this.$locale().weekStart||0,b=(y<$?y+7:y)-$;return h(f?m-b:m+(6-b),p);case o:case"date":return d(g+"Hours",0);case r:return d(g+"Minutes",1);case n:return d(g+"Seconds",2);case e:return d(g+"Milliseconds",3);default:return this.clone()}},h.endOf=function(t){return this.startOf(t,!1)},h.$set=function(i,s){var c,f=v.p(i),l="set"+(this.$u?"UTC":""),h=(c={},c[o]=l+"Date",c.date=l+"Date",c[u]=l+"Month",c[a]=l+"FullYear",c[r]=l+"Hours",c[n]=l+"Minutes",c[e]=l+"Seconds",c[t]=l+"Milliseconds",c)[f],d=f===o?this.$D+(s-this.$W):s;if(f===u||f===a){var y=this.clone().set("date",1);y.$d[h](d),y.init(),this.$d=y.set("date",Math.min(this.$D,y.daysInMonth())).toDate()}else h&&this.$d[h](d);return this.init(),this},h.set=function(t,e){return this.clone().$set(t,e)},h.get=function(t){return this[v.p(t)]()},h.add=function(t,s){var c,f=this;t=Number(t);var l=v.p(s),h=function(e){var n=$(f);return v.w(n.date(n.date()+Math.round(e*t)),f)};if(l===u)return this.set(u,this.$M+t);if(l===a)return this.set(a,this.$y+t);if(l===o)return h(1);if(l===i)return h(7);var d=(c={},c[n]=6e4,c[r]=36e5,c[e]=1e3,c)[l]||1,y=this.$d.getTime()+t*d;return v.w(y,this)},h.subtract=function(t,e){return this.add(-1*t,e)},h.format=function(t){var e=this;if(!this.isValid())return"Invalid Date";var n=t||"YYYY-MM-DDTHH:mm:ssZ",r=v.z(this),o=this.$locale(),i=this.$H,u=this.$m,s=this.$M,a=o.weekdays,c=o.months,l=function(t,r,o,i){return t&&(t[r]||t(e,n))||o[r].substr(0,i)},h=function(t){return v.s(i%12||12,t,"0")},d=o.meridiem||function(t,e,n){var r=t<12?"AM":"PM";return n?r.toLowerCase():r},y={YY:String(this.$y).slice(-2),YYYY:this.$y,M:s+1,MM:v.s(s+1,2,"0"),MMM:l(o.monthsShort,s,c,3),MMMM:c[s]||c(this,n),D:this.$D,DD:v.s(this.$D,2,"0"),d:String(this.$W),dd:l(o.weekdaysMin,this.$W,a,2),ddd:l(o.weekdaysShort,this.$W,a,3),dddd:a[this.$W],H:String(i),HH:v.s(i,2,"0"),h:h(1),hh:h(2),a:d(i,u,!0),A:d(i,u,!1),m:String(u),mm:v.s(u,2,"0"),s:String(this.$s),ss:v.s(this.$s,2,"0"),SSS:v.s(this.$ms,3,"0"),Z:r};return n.replace(f,(function(t,e){return e||y[t]||r.replace(":","")}))},h.utcOffset=function(){return 15*-Math.round(this.$d.getTimezoneOffset()/15)},h.diff=function(t,c,f){var l,h=v.p(c),d=$(t),y=6e4*(d.utcOffset()-this.utcOffset()),p=this-d,m=v.m(this,d);return m=(l={},l[a]=m/12,l[u]=m,l[s]=m/3,l[i]=(p-y)/6048e5,l[o]=(p-y)/864e5,l[r]=p/36e5,l[n]=p/6e4,l[e]=p/1e3,l)[h]||p,f?m:v.a(m)},h.daysInMonth=function(){return this.endOf(u).$D},h.$locale=function(){return p[this.$L]},h.locale=function(t,e){if(!t)return this.$L;var n=this.clone(),r=g(t,e,!0);return r&&(n.$L=r),n},h.clone=function(){return v.w(this.$d,this)},h.toDate=function(){return new Date(this.valueOf())},h.toJSON=function(){return this.isValid()?this.toISOString():null},h.toISOString=function(){return this.$d.toISOString()},h.toString=function(){return this.$d.toUTCString()},l}();return $.prototype=b.prototype,$.extend=function(t,e){return t(e,b,$),$},$.locale=g,$.isDayjs=m,$.unix=function(t){return $(1e3*t)},$.en=p[y],$.Ls=p,$}()}])}));

diff --git a/src/index.js b/src/index.js
@@ -4,30 +4,35 @@ class LogTalk {
     return [
       {
         name: "debug",
+        label: "[DEBUG]",
         level: 1,
         color: "default",
         output: console.log,
       },
       {
         name: "info",
+        label: "[INFO]",
         level: 2,
         color: "blue",
         output: console.log,
       },
       {
         name: "success",
+        label: "[SUCCESS]",
         level: 3,
         color: "green",
         output: console.log,
       },
       {
         name: "warn",
+        label: "[WARN]",
         level: 4,
         color: "yellow",
         output: console.warn || console.log,
       },
       {
         name: "error",
+        label: "[ERROR]",
         level: 5,
         color: "red",
         output: console.error || console.log,
@@ -40,7 +45,7 @@ class LogTalk {
       level: 1,
       color: "default",
       output: console.log,
-      timeFormat: "YYYY-MM-DD HH:mm:ss",
+      timeFormat: "[[]YYYY-MM-DD HH:mm:ss]",
     };
   };
 
@@ -87,7 +92,7 @@ class LogTalk {
       throw new Error("Invalid method");
     }
     method = { ...this.__option, ...method };
-    const { name, level, timeFormat, output, color } = method;
+    const { name, label, level, timeFormat, output, color } = method;
     if (typeof name !== "string") {
       throw new Error("Invalid method name");
     }
@@ -101,7 +106,7 @@ class LogTalk {
     if (typeof console === 'undefined') return false;
     if (!this.__level || level < this.__level) return false;
     const timestamp = dayjs().format(timeFormat);
-    const args = this.highlight(timestamp, name, color);
+    const args = this.highlight(timestamp, typeof label !== 'undefined' ? label : name, color);
     this[name] = output.bind(console, ...args);
   }
 };

diff --git a/docs/demo.js b/docs/demo.js
@@ -8,9 +8,9 @@ logger.warn('This is warn');
 logger.error('This is error', new Error('There is something wrong'));
 
 // Define your own method
-logger.setMethod({ name: 'foo', color: 'yellow', timeFormat: '[[]YYYY-MM-DD HH:mm:ss]' });
+logger.setMethod({ name: 'foo', color: 'yellow', timeFormat: 'YYYY-MM-DD' });
 logger.foo('Foo');
 
 // Override default methods
-logger.setMethod({ name: 'info', color: 'red' });
-logger.info('Now the label is red');
+logger.setMethod({ name: 'info', label: '[INFO]', color: 'red' });
+logger.info('The label is red now');

diff --git a/README.md b/README.md
@@ -52,6 +52,17 @@ const minLevel = 3;
 const logger = new LogTalk(minLevel);
 ```
 
+## Label
+
+Set `label` option to customize label.  
+If you don't set label, `name` option is used as label.
+
+```JavaScript
+const LogTalk = require('log-talk');
+const logger = new LogTalk();
+logger.setMethod({ name: 'foo', label: 'Foo' });
+```
+
 ## Time format
 
 Set `timeFormat` option to customize time format.
